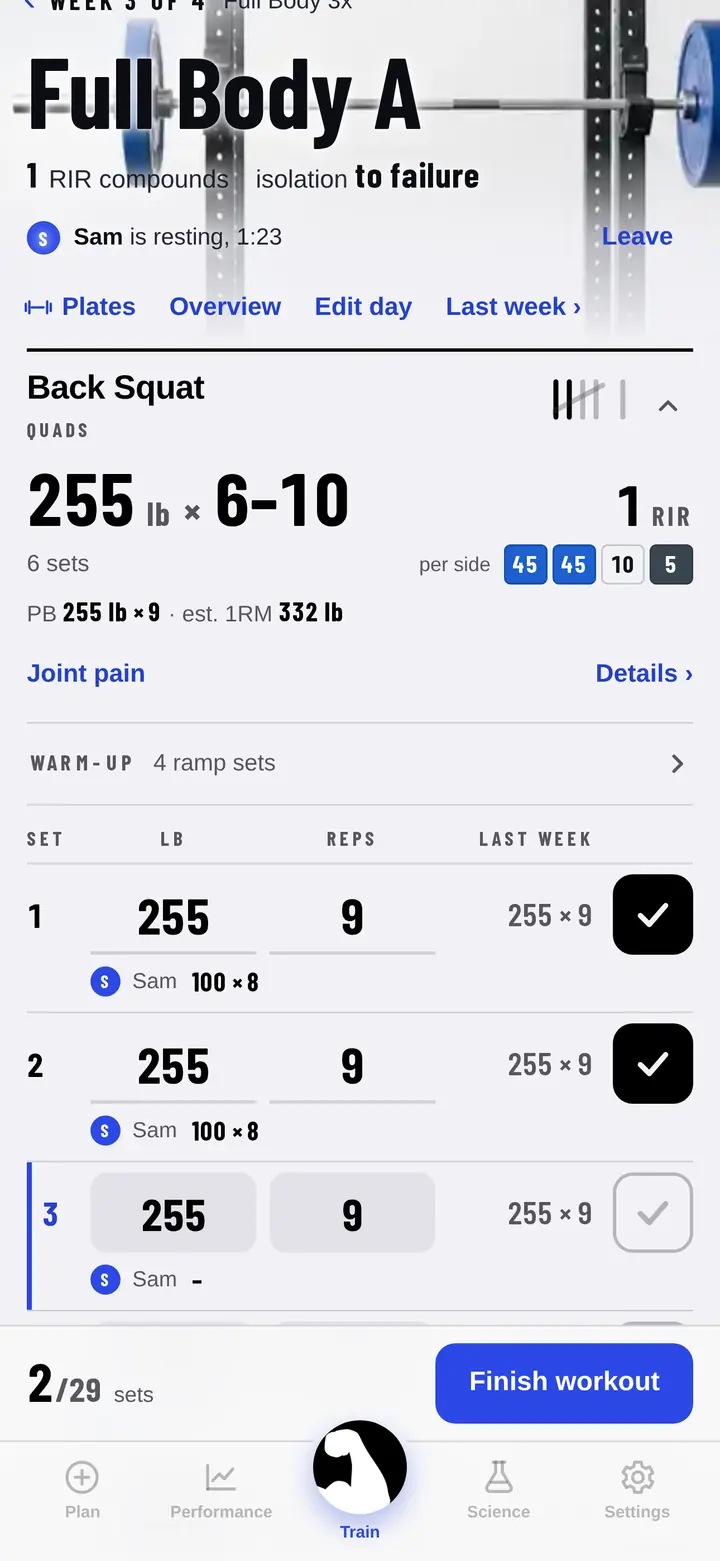
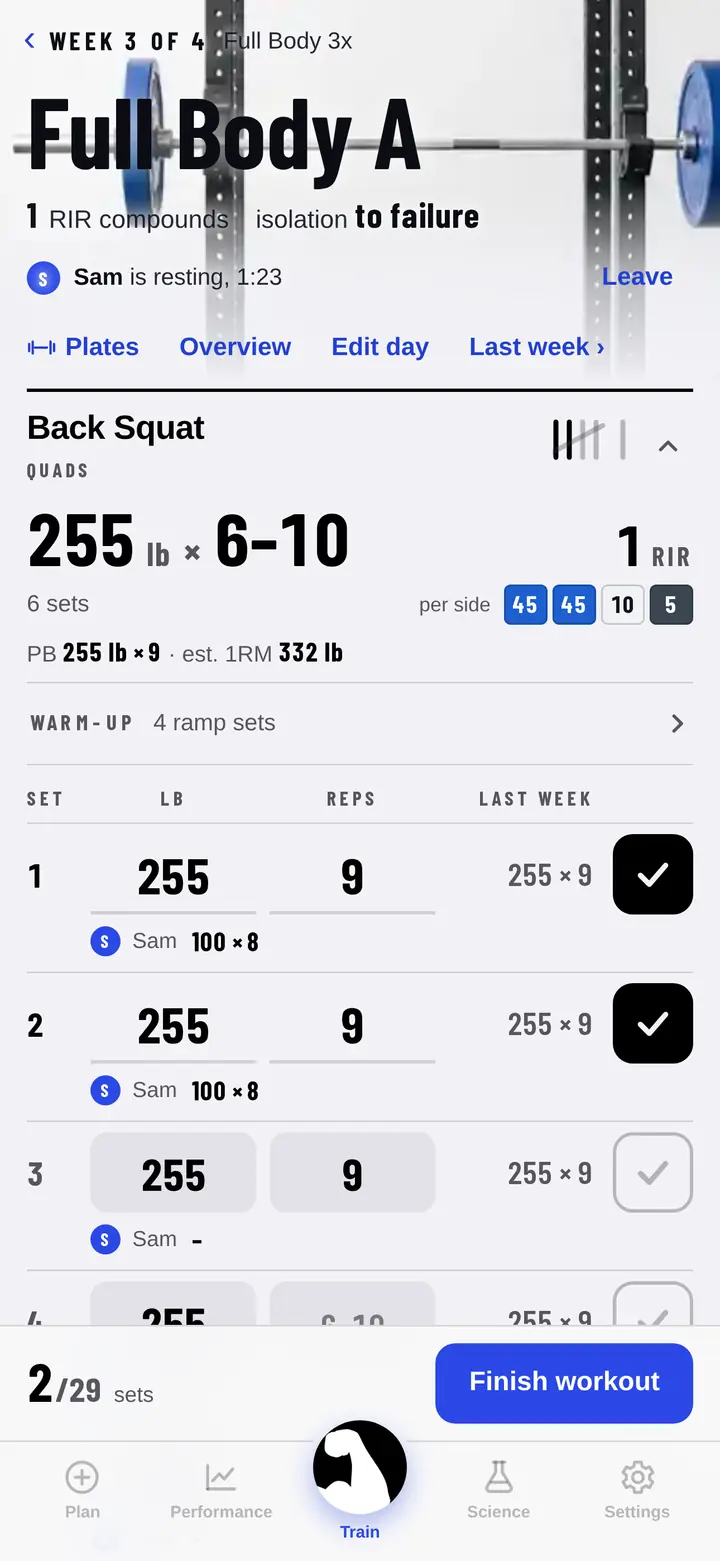
The friend logger screenshot shows the whole screen again, with nothing cut off at the top; plainer front page, press and support copy, and the appearance setting no longer billed as a feature

diff --git a/index.html b/index.html
@@ -5,7 +5,7 @@
 <meta name="viewport" content="width=device-width, initial-scale=1">
 <meta name="apple-itunes-app" content="app-id=6789395189">
 <title>Meso: Hypertrophy Coach</title>
-<meta name="description" content="A hypertrophy training app that decides your next set from what you actually lifted. Every rule cited to the research. Train with a friend phone to phone. Works offline, no account.">
+<meta name="description" content="A hypertrophy training app that decides your next set from what you actually lifted, with every rule cited to the research. Train with a friend phone to phone. It works offline and needs no account.">
 <meta property="og:title" content="Meso: Hypertrophy Coach">
 <meta property="og:description" content="Volume you have to earn. Meso reads your logged performance and writes next week from it.">
 <meta property="og:image" content="https://mesohypertrophy.com/og.jpg">
@@ -162,8 +162,8 @@
       <div>
         <p class="kicker">Hypertrophy coach · Earned Volume</p>
         <h1>Volume you have to <em>earn</em>.</h1>
-        <p class="lede">Meso reads what you actually lifted and writes next week from it. Beat last week and it adds a
-          set. Stall and it holds. Every rule comes from published research, and the papers are in the app.</p>
+        <p class="lede">Meso reads what you actually lifted and writes next week from it. Beat last week and a muscle
+          gets another set; stall and it holds. Every rule comes from published research, and the papers are in the app.</p>
         <div class="cta">
           <a class="store" href="https://apps.apple.com/app/apple-store/id6789395189?ct=website"><img src="app-store-badge.svg" alt="Download on the App Store" width="162" height="54"></a>
           <a class="btn ghost" href="#rules">See how it decides</a>
@@ -187,8 +187,8 @@
         <p class="eyebrow new">Train with a friend</p>
         <h2>Their sets <em>under yours</em>.</h2>
         <p>Share today's workout with a friend's phone nearby, then see each other's sets as you log them. It runs
-          straight between the two phones in the room: no account, no server, and nothing arrives on a phone until
-          its owner taps Accept.</p>
+          straight between the two phones in the room, without an account or a server, and nothing arrives on a
+          phone until its owner taps Accept.</p>
         <p>Lifts you both do count toward your own progress. Their extras are logged without changing your program.</p>
       </div>
     </div>
@@ -219,11 +219,10 @@
 
   <section>
     <p class="eyebrow">At the bar</p>
-    <h2>Built for the session, not the spreadsheet</h2>
+    <h2>What you see between sets</h2>
     <div class="grid">
-      <div class="card"><h3>Reads like a training log</h3><p>Last week on every row, plates on the bar, warm-up ramps worked out, and a gold mark when you set a PB.</p></div>
-      <div class="card"><h3>Last session, one tap away</h3><p>Train opens on today's workout and the numbers to beat, with your last session one tap away.</p></div>
-      <div class="card"><h3>Light, Dark or System</h3><p>Pick the look in Settings, or let your phone decide. Either way, the rest timer runs full screen, timed for the movement.</p></div>
+      <div class="card"><h3>Reads like a training log</h3><p>Each row shows last week's numbers and the plates to load, warm-up ramps are worked out for you, and a PB gets a gold mark.</p></div>
+      <div class="card"><h3>The numbers to beat</h3><p>Train opens on today's workout and what you need to beat from last week. Your last session is one tap away.</p></div>
     </div>
   </section>
 
@@ -233,8 +232,8 @@
       <div>
         <p class="eyebrow">Evidence</p>
         <h2>Every rule cited. <em>Check our work.</em></h2>
-        <p>Science-based is easy to say. Meso shows the papers: each rule the engine follows is written in plain
-          language with its citations, in the app, where you can read them mid-session if you want to. Where a rule is
+        <p>Plenty of apps call themselves science-based. Meso shows the papers. Each rule the engine follows is
+          written in plain language with its citations, in the app, so you can read them mid-session if you want to. Where a rule is
           coaching convention rather than evidence, it says so.</p>
       </div>
     </div>
@@ -275,7 +274,7 @@
     </div>
     <div class="grid">
       <div class="card"><h3>Gym</h3><p>Barbells, dumbbells, machines and cables, with plate maths and warm-up ramps built in.</p></div>
-      <div class="card"><h3>Home</h3><p>No equipment: a floor, a wall and a sturdy chair. Same engine, different lever.</p></div>
+      <div class="card"><h3>Home</h3><p>No equipment beyond a floor, a wall and a sturdy chair, progressed by the same engine as the gym programs.</p></div>
       <div class="card"><h3>Bar park</h3><p>Calisthenics progressions that advance the movement when you top the rep window. Log vest weight and it switches to load progression.</p></div>
     </div>
   </section>
@@ -285,16 +284,17 @@
       <div class="panel">
         <p class="eyebrow">Private by design</p>
         <h2>Your training stays on your phone</h2>
-        <p>No account, no sign-up, no server. Meso works offline, and you can export a backup file any time. A
+        <p>There's no account to make and no server holding your training. Meso works offline, and you can export a
+          backup file any time. A
           workout goes to a friend's phone only when you choose to share it.</p>
         <p><a href="privacy.html">Read the privacy policy</a></p>
       </div>
       <div class="panel">
         <span class="pro">MESO PRO</span>
         <h2>Your first mesocycle is free</h2>
-        <p>Your first block is on us. If Meso earns its keep, Meso Pro unlocks longer programs and
-          continued training, as a monthly or annual plan or a one-time lifetime purchase. The price shows in your
-          local currency in the app before you buy.</p>
+        <p>Run your first block free. If Meso earns its keep, Meso Pro unlocks longer programs and
+          continued training, as a monthly or annual plan or a one-time lifetime purchase. The app shows the price in
+          your local currency before you buy.</p>
         <p><a href="support.html">Billing questions</a></p>
       </div>
     </div>

diff --git a/support.html b/support.html
@@ -18,7 +18,7 @@
 <li><b>How do I back up my training or move it to a new phone?</b> Meso stores your data only on your device, so make a backup before you delete the app or change phones. In Settings, tap Back up my data to save a file (to Files, iCloud Drive, AirDrop or email), then use Restore from a backup file on the new device to load it.</li>
 <li><b>How does training with a friend work?</b> Both of you need Meso on an iPhone, close together, with Wi-Fi and Bluetooth on. One of you taps With a friend on the Train tab and chooses Share my workout; the other taps With a friend and chooses Join a friend, then accepts. You each log your own sets and see the other's as they land. Lifts you both do count toward your own progress; their extra lifts are logged without changing your program. If it can't connect, check that Local Network access is allowed for Meso in the iPhone Settings app.</li>
 <li><b>How do challenges work?</b> Each month has a target sized to your plan, and every lift where you beat last week's best set counts toward it. Special days like Halloween and Christmas Day are earned with one finished session. Your badges live on the Performance tab, and you can turn challenge reminders on or off in Settings.</li>
-<li><b>Is my data private?</b> Yes. Meso is local-first: no account, no server, and your training data stays on your device unless you export a backup file yourself or share a workout with a friend nearby. See our privacy policy below.</li>
+<li><b>Is my data private?</b> Yes. Meso is local-first. There is no account and no server of ours, and your training data stays on your device unless you export a backup file yourself or share a workout with a friend nearby. See our privacy policy below.</li>
 <li><b>Who is Meso for?</b> Adults training for muscle growth, in a gym, at home, or with bodyweight only. See our training readiness note below for guidance on age and getting started.</li>
 </ul>
 <h2>Health disclaimer</h2>

diff --git a/press.html b/press.html
@@ -71,7 +71,7 @@
   <li><div><b>The evidence is in the app.</b> Each rule is explained in plain language with the papers behind it, and where an exact number is convention rather than settled evidence, the app says so.</div></li>
   <li><div><b>Bodyweight training progresses too.</b> Calisthenics and home programs advance to a harder variation when you top the rep range, and switch to load progression when you log vest weight.</div></li>
   <li><div><b>Deloads come on schedule, or early when the data says so.</b> Two weeks of falling performance across several muscles brings the deload forward.</div></li>
-  <li><div><b>No account, no server.</b> Meso works offline and keeps training data on the device.</div></li>
+  <li><div><b>There is nothing to sign up for.</b> Meso works offline, has no accounts, and keeps training data on the device.</div></li>
 </ol>
 
 <h2>App icon</h2>
